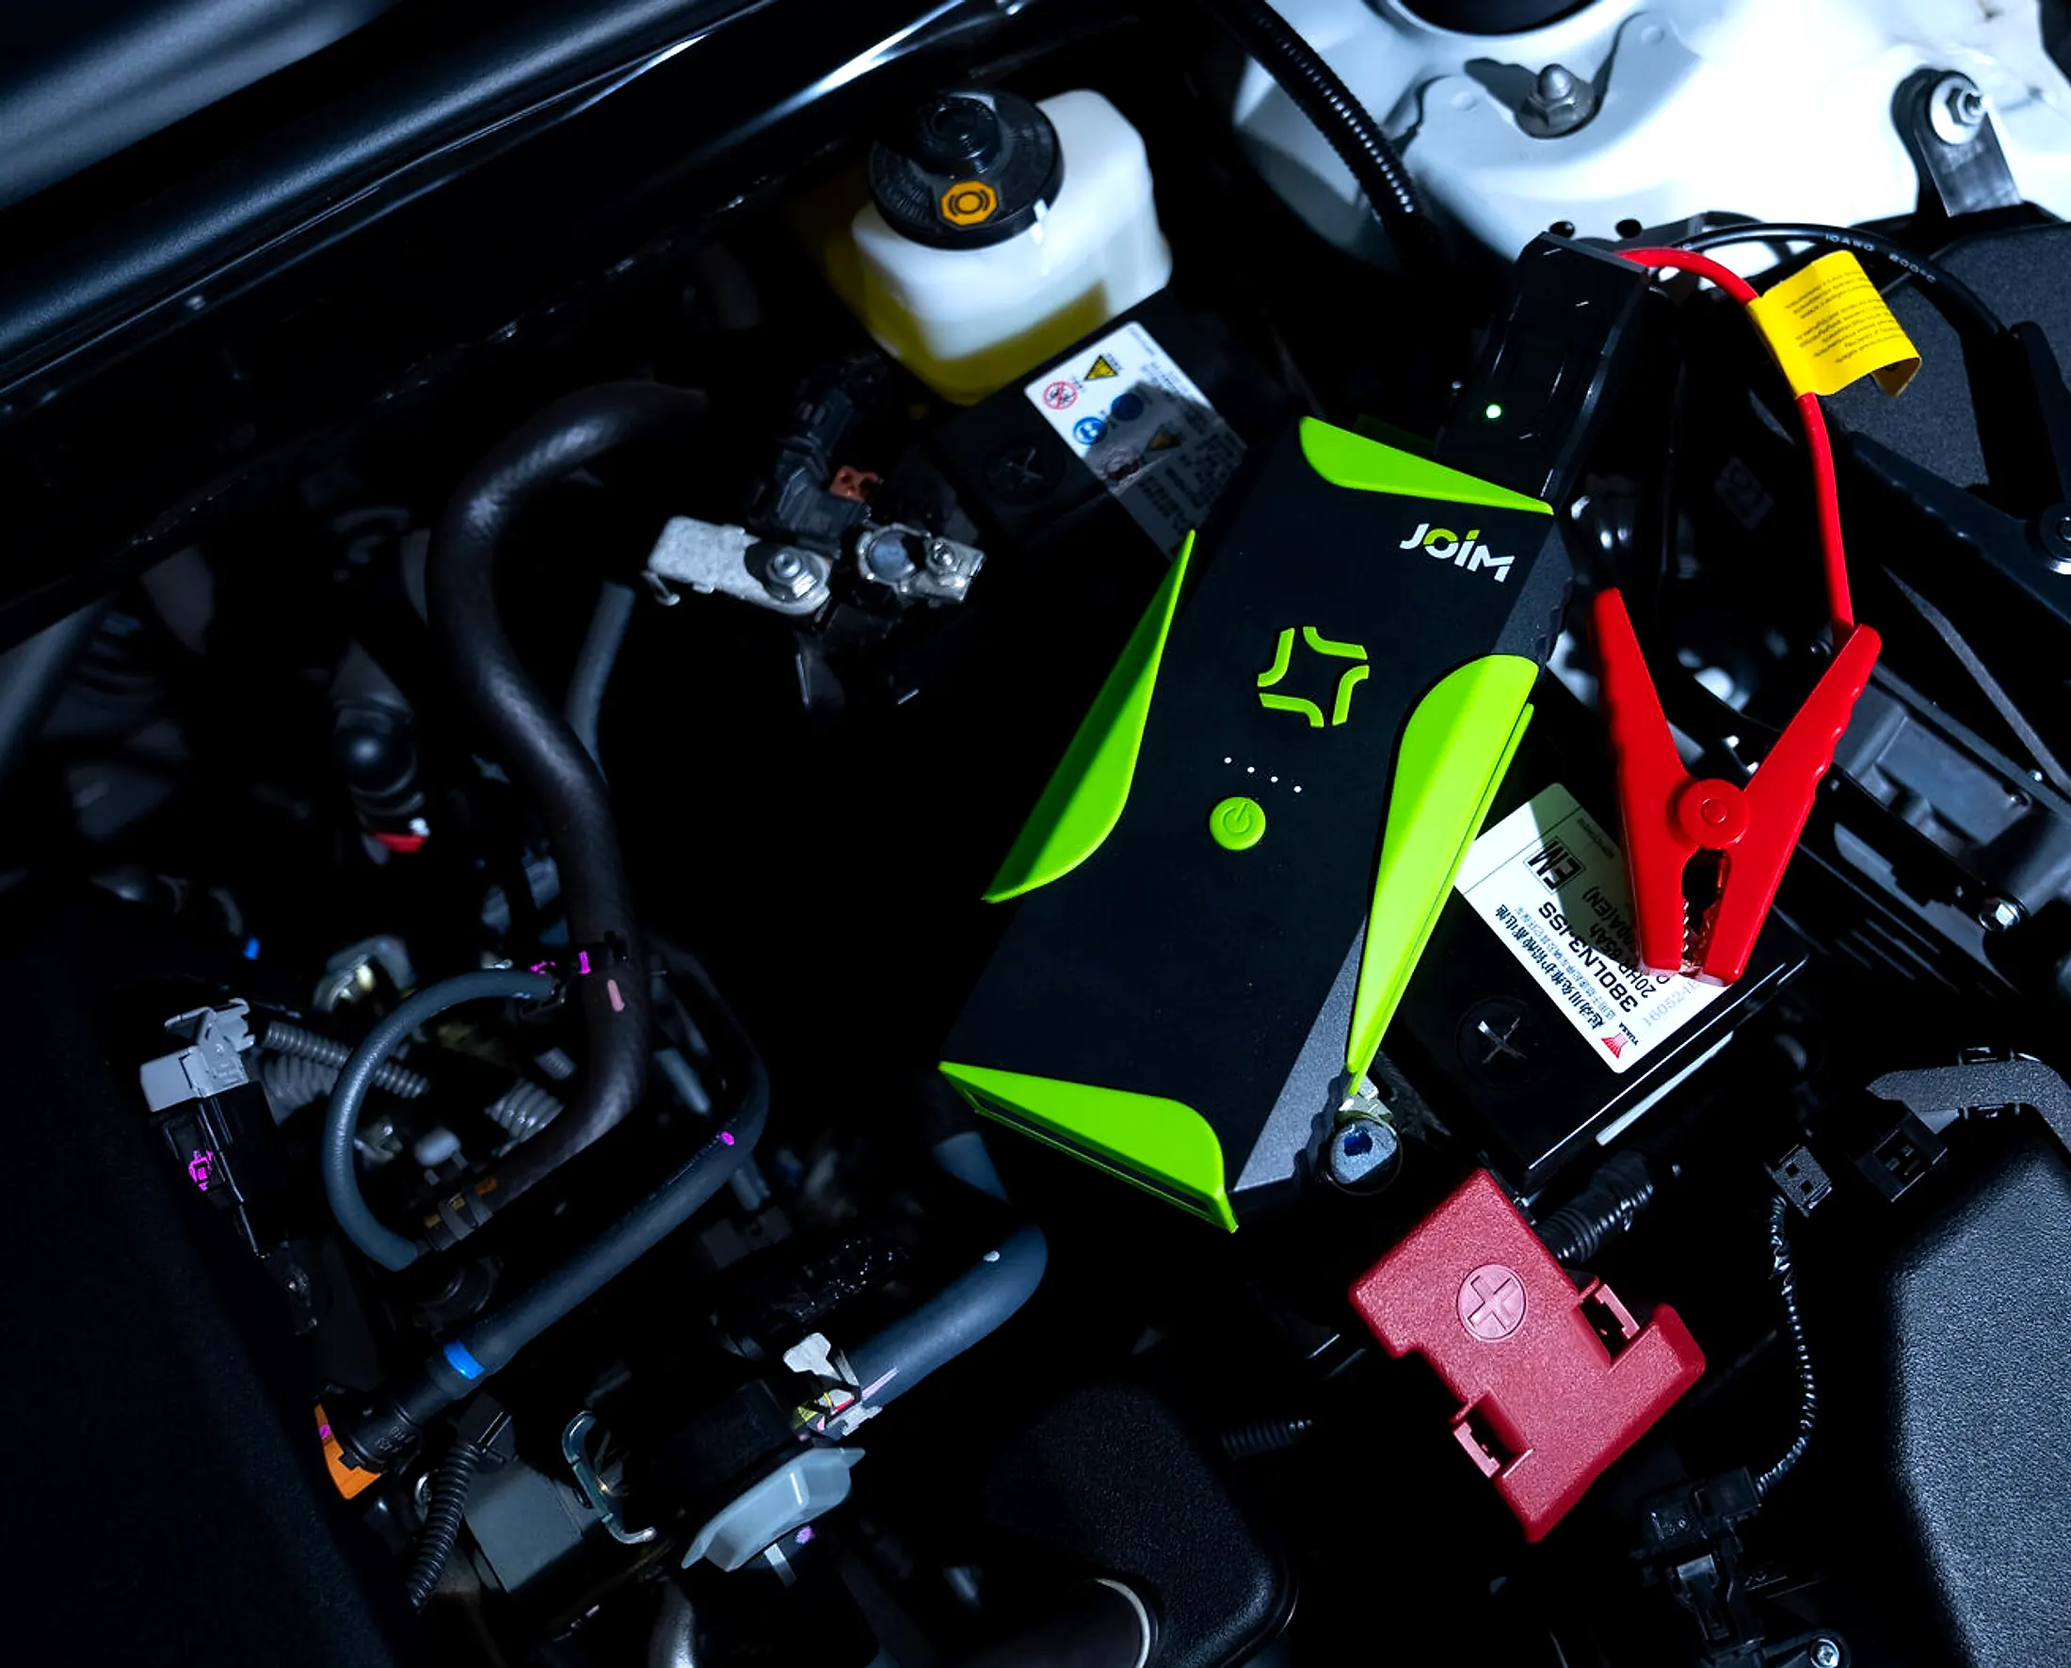
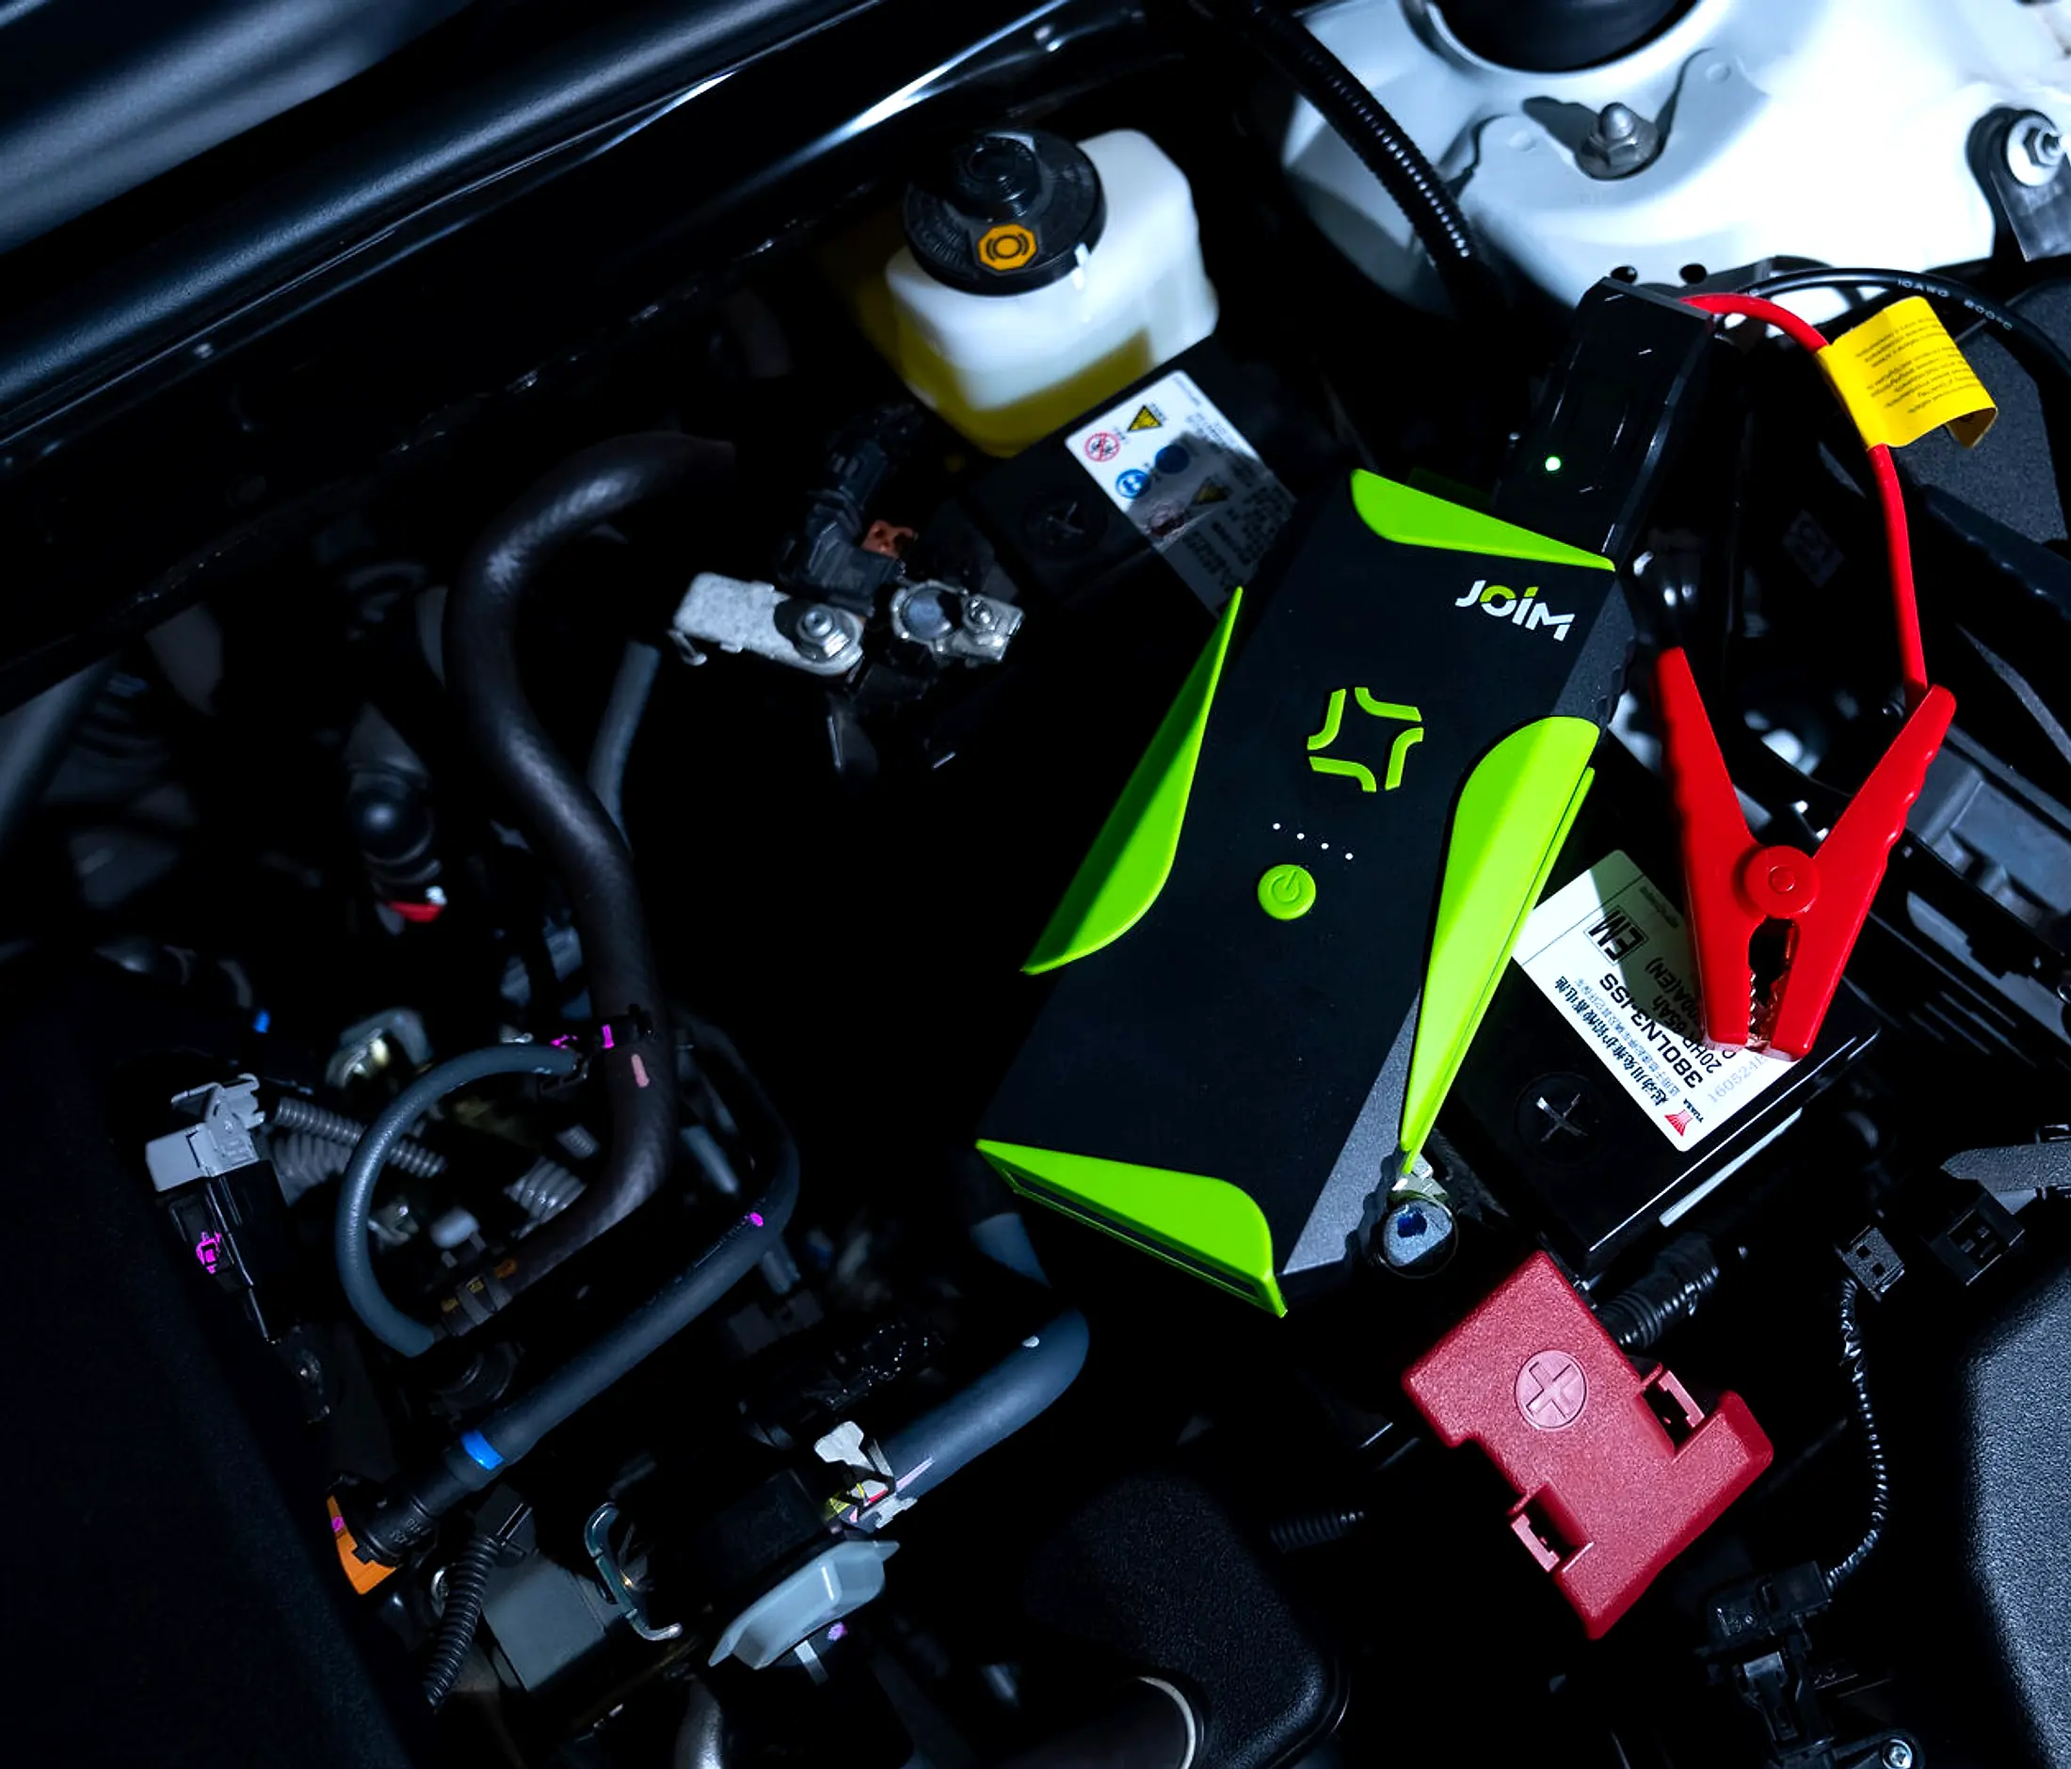
Прибор в отмеченной зоне и с акцентом
Посадка: правый край исходника обрезан на 25%, центр прибора пришёлся
на 0,68 ширины кадра — область, которую отметил заказчик. Раньше прибор
стоял по центру и попадал под заголовок.

Яркость сделана вычитанием, а не прибавлением: радиальная завеса
с прозрачным пятном над прибором гасит окружение, прибор остаётся
в своей яркости. Осветлять его напрямую нельзя — кадр выцветает
и тёмная страница ломается. Сверху 10% света через mix-blend-screen.

Показания стояли в строку и ложились на прибор — теперь столбцом
у правого края. Правая колонка сужена с 1fr до 240 px, иначе на 1280
заголовок ломался на четыре строки.

diff --git a/components/sections/Hero.tsx b/components/sections/Hero.tsx
@@ -64,10 +64,19 @@ export function Hero() {
         {/* Диагональная завеса рассчитана на широкий экран: слева плотно
             под текст, справа открыто под предмет. На телефоне колонка одна
             и текст идёт поверх кадра, поэтому там завеса вертикальная. */}
-        <div className="absolute inset-0 hidden bg-[linear-gradient(100deg,var(--color-void)_0%,rgba(17,19,19,0.96)_24%,rgba(17,19,19,0.74)_40%,rgba(17,19,19,0.2)_60%,rgba(17,19,19,0.12)_84%,rgba(17,19,19,0.42)_100%)] lg:block" />
+        <div className="absolute inset-0 hidden bg-[linear-gradient(100deg,var(--color-void)_0%,rgba(17,19,19,0.96)_24%,rgba(17,19,19,0.76)_42%,rgba(17,19,19,0.42)_56%,rgba(17,19,19,0.3)_72%,rgba(17,19,19,0.55)_100%)] lg:block" />
         <div className="absolute inset-0 bg-[linear-gradient(to_bottom,rgba(17,19,19,0.94)_0%,rgba(17,19,19,0.86)_38%,rgba(17,19,19,0.5)_62%,rgba(17,19,19,0.72)_100%)] lg:hidden" />
         <div className="absolute inset-x-0 bottom-0 h-[22rem] bg-[linear-gradient(to_top,var(--color-void)_26%,rgba(17,19,19,0.55)_58%,transparent)]" />
         <div className="absolute inset-x-0 top-0 h-28 bg-[linear-gradient(to_bottom,rgba(17,19,19,0.8),transparent)]" />
+
+        {/* Акцент на приборе. Затемняем всё, кроме пятна над ним:
+            прибор остаётся в своей яркости, а окружение уходит вниз —
+            так «ярче» получается без осветления, от которого кадр
+            выцветает. Центр совпадает с местом, куда он посажен
+            кадрированием. */}
+        <div className="absolute inset-0 hidden bg-[radial-gradient(46%_52%_at_68%_46%,transparent_0%,rgba(17,19,19,0.18)_46%,rgba(17,19,19,0.5)_100%)] lg:block" />
+        {/* И совсем немного света сверху — блик, а не подсветка */}
+        <div className="absolute inset-0 hidden mix-blend-screen bg-[radial-gradient(30%_34%_at_68%_44%,rgba(255,255,255,0.1),transparent_70%)] lg:block" />
       </div>
 
       {/* Фирменные линии поверх кадра — тише, чем на пустом фоне */}
@@ -77,7 +86,7 @@ export function Hero() {
       />
 
       <Container size="wide" className="relative pt-10 pb-12 lg:pt-14 lg:pb-16">
-        <div className="grid gap-10 lg:min-h-[560px] lg:grid-cols-[1.05fr_1fr] lg:gap-8">
+        <div className="grid gap-10 lg:min-h-[560px] lg:grid-cols-[1fr_240px] lg:gap-8">
           <div className="flex flex-col justify-center">
             <p
               className="eyebrow inline-flex items-center gap-3 animate-rise"
@@ -151,15 +160,16 @@ export function Hero() {
           </div>
 
           {product ? (
-            <div className="relative flex flex-wrap items-end justify-start gap-4 lg:justify-end">
-              {/* Вырезанного товара здесь больше нет: устройство показано
-                  съёмкой на фоне, в работе. Остались только показания. */}
+            /* Показания стоят столбцом у правого края: прибор занимает
+               середину кадра, и в строку карточки ложились прямо на него.
+               Столбцом они встают рядом, а не поверх. */
+            <div className="relative flex flex-wrap items-end justify-start gap-4 lg:flex-col lg:flex-nowrap lg:items-end lg:justify-center">
               {cards.map((item, index) => {
                 const { count, tail } = split(item.value);
                 return (
                   <div
                     key={item.label}
-                    className="relative min-w-[150px] flex-1 rounded-2xl border border-white/12 bg-void/60 p-5 backdrop-blur-xl animate-fade lg:max-w-[220px] lg:flex-none lg:p-7"
+                    className="relative min-w-[150px] flex-1 rounded-2xl border border-white/12 bg-void/60 p-5 backdrop-blur-xl animate-fade lg:w-[212px] lg:flex-none lg:p-6"
                     style={{ animationDelay: `${520 + index * 90}ms` }}
                   >
                     <span
